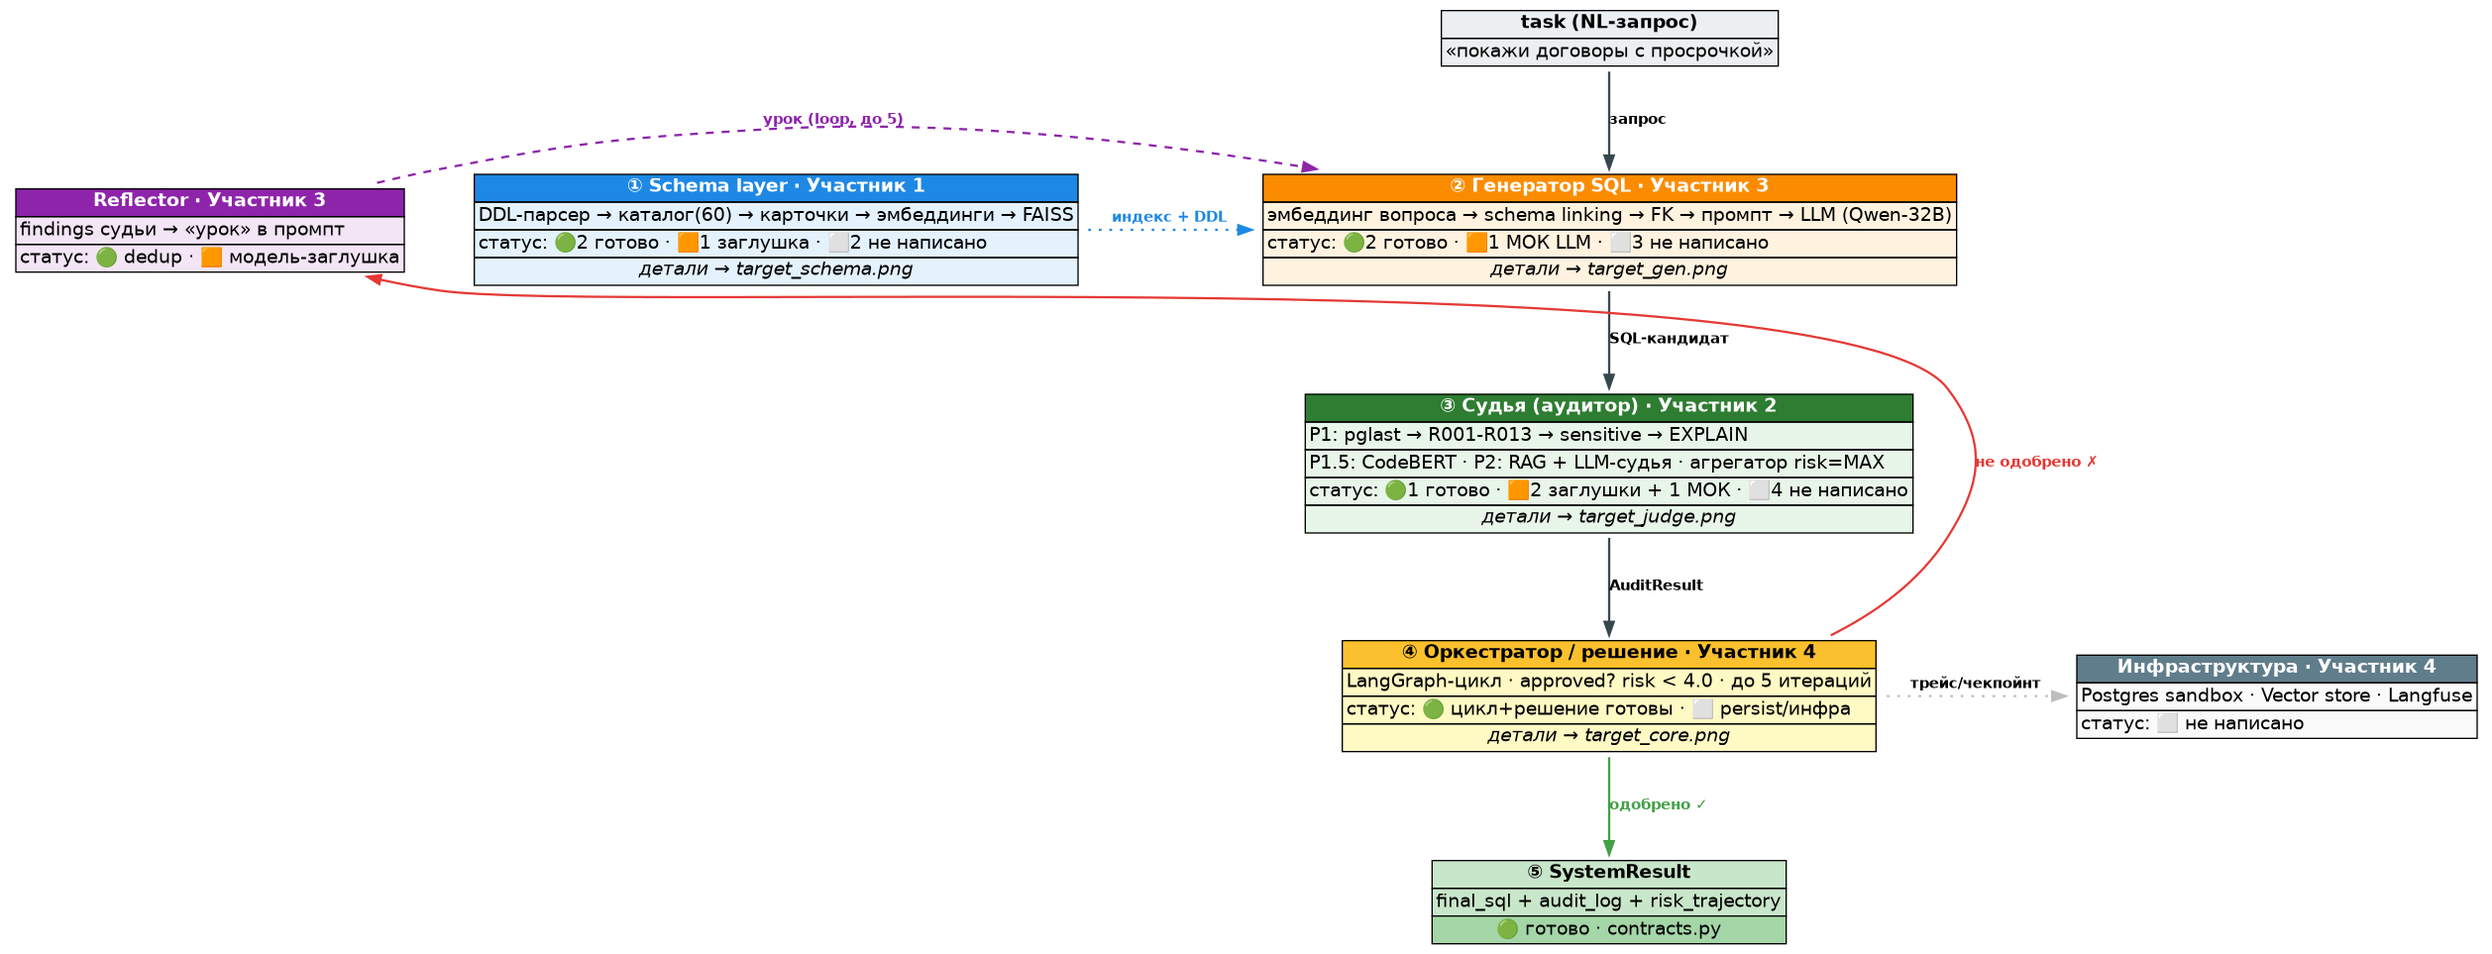
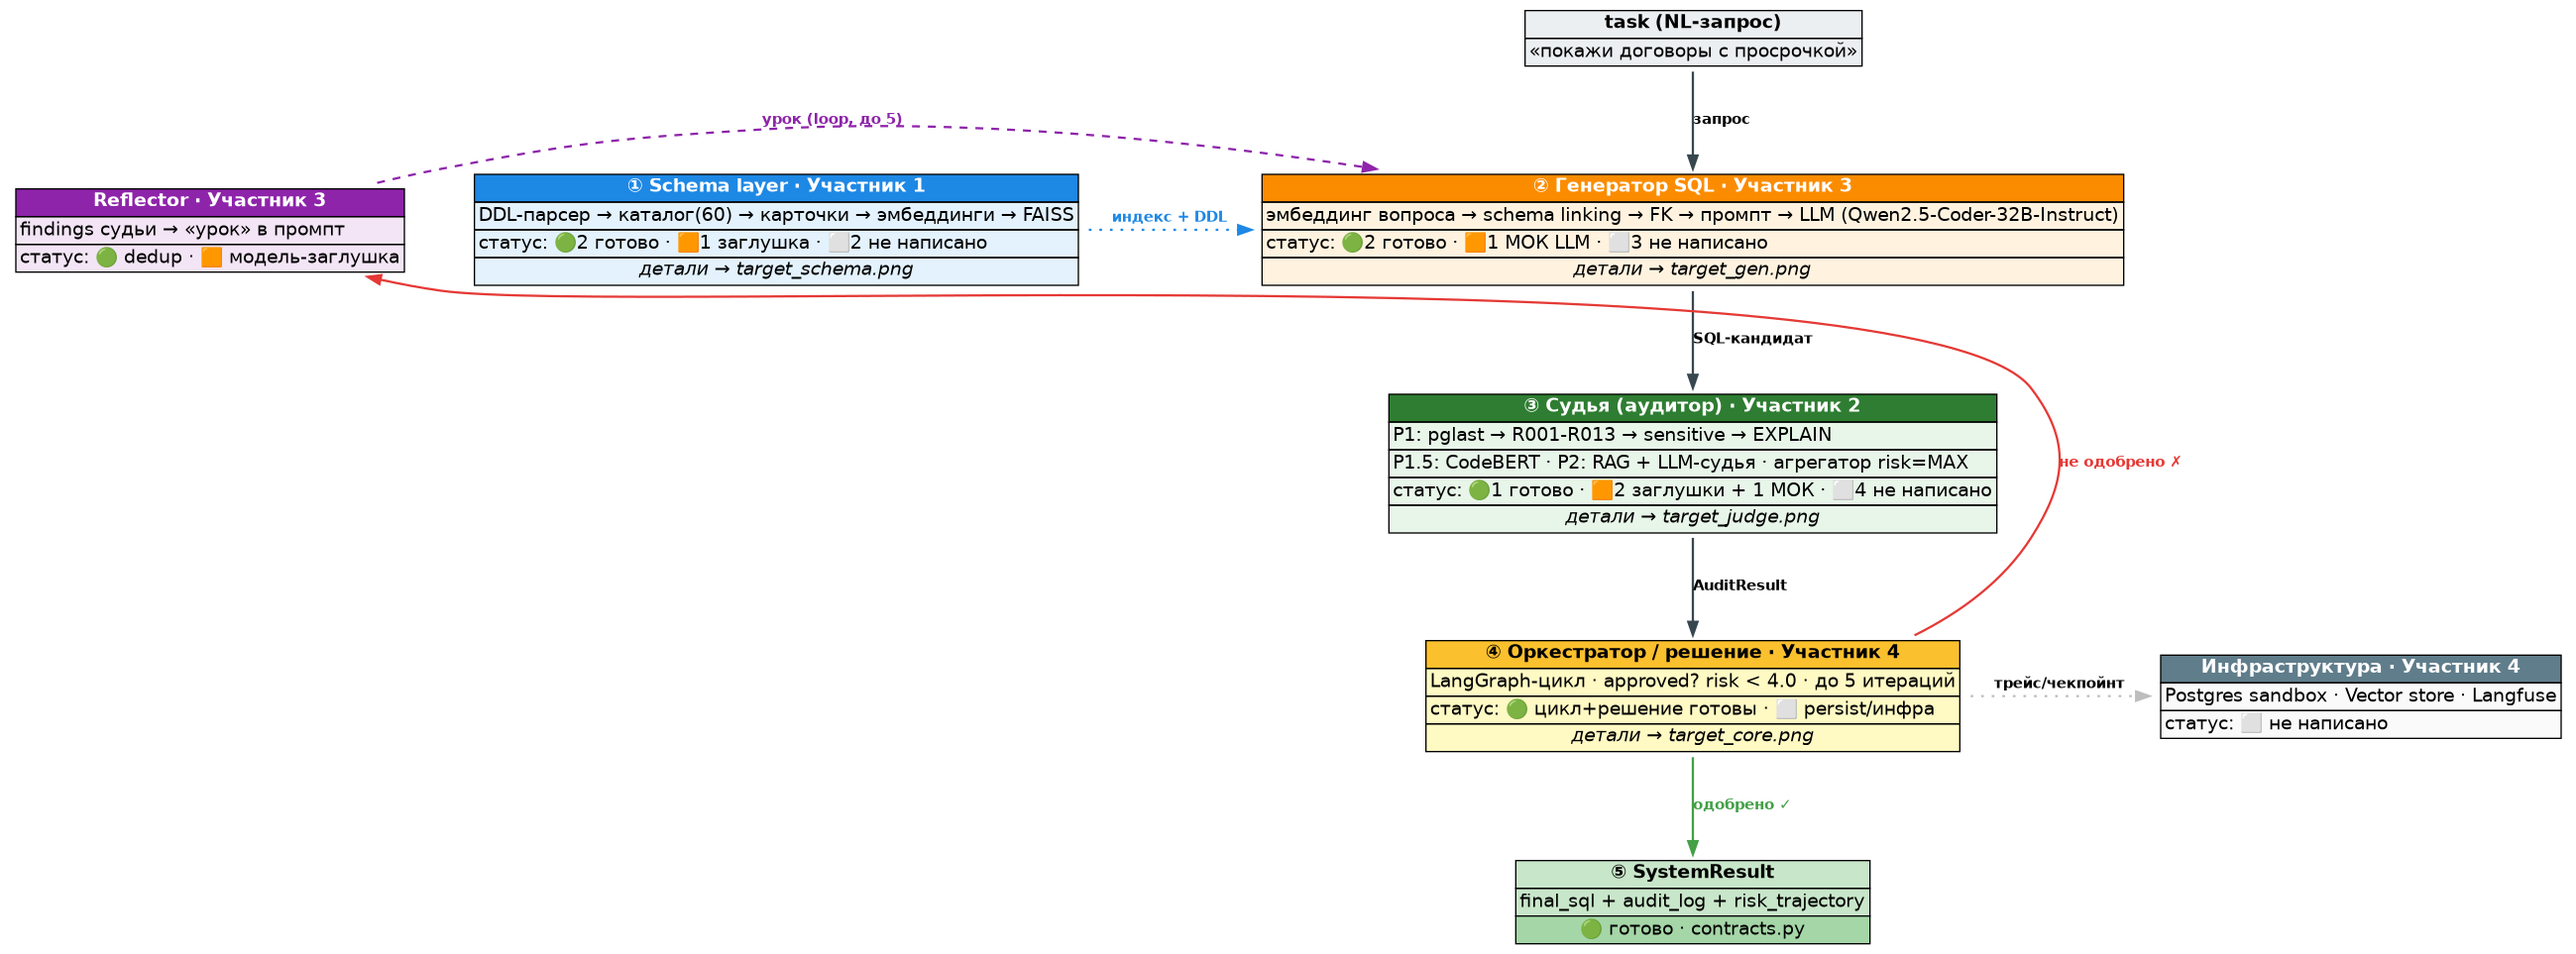
docs: уточнил модели до Qwen2.5-Coder-32B-Instruct / Qwen2.5-7B-Instruct в Q&A и диаграммах

diff --git a/docs/qa/00_architecture.md b/docs/qa/00_architecture.md
@@ -75,7 +75,7 @@
 **60.** Как меряем прогресс? — Кол-во ⬜→🟢 в `target_components`; покрытие правил Phase 1.
 
 ## Технологии (61–70)
-**61.** Какие модели? — Qwen2.5-Coder-32B (генератор), Qwen2.5-7B (судья), CodeBERT (Phase 1.5).
+**61.** Какие модели? — Qwen2.5-Coder-32B-Instruct (генератор), Qwen2.5-7B-Instruct (судья), CodeBERT (Phase 1.5).
 **62.** Почему Qwen, а не Llama? — На coder-задачах Qwen-Coder выше на Spider/BIRD, Apache-лицензия.
 **63.** Почему 32B? — Баланс качества и стоимости. 70B+ — переплата для SQL.
 **64.** Почему 7B для судьи? — Триаж и объяснение — простая задача; разделение моделей дешевле, чем self-critique 32B.

diff --git a/docs/qa/README.md b/docs/qa/README.md
@@ -18,7 +18,7 @@
 
 ## Принцип формата
 - Вопросы — те, что задаст придирчивый ментор / жюри / заказчик.
-- Ответы короткие (1–3 строки), специфичные к нашей системе: Qwen2.5-Coder-32B, threshold 4.0, 60 таблиц, AWQ-4bit, FAISS top-15, и т.д. Без воды.
+- Ответы короткие (1–3 строки), специфичные к нашей системе: Qwen2.5-Coder-32B-Instruct, threshold 4.0, 60 таблиц, AWQ-4bit, FAISS top-15, и т.д. Без воды.
 - Если ответ не очевиден из кода — он приведён точно с тем, что мы планируем сказать.
 
 ## Что нет смысла спрашивать «по бумажке»
